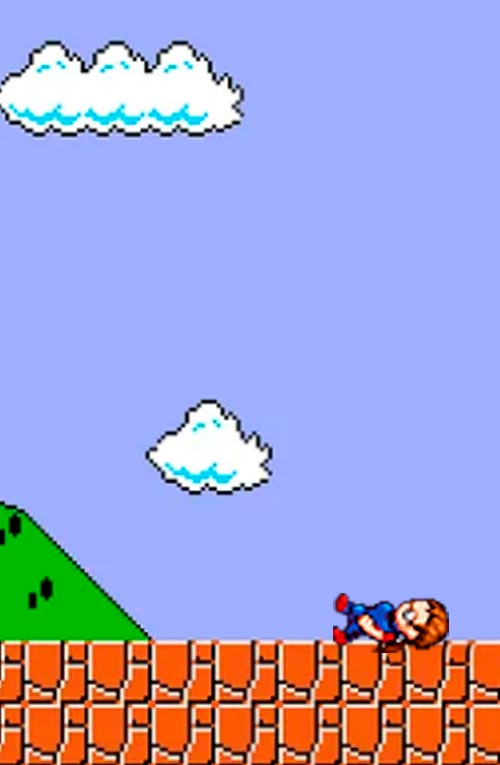
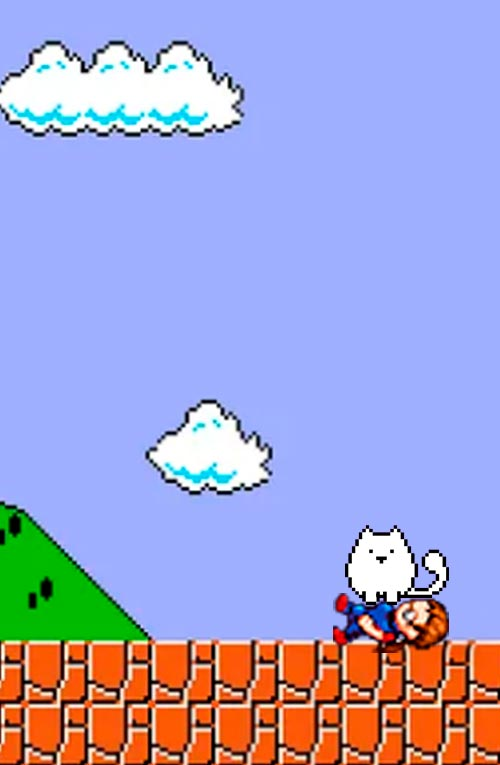
efecto de movimiento

Changed region(s): [[0.69, 0.6915, 0.9, 0.8118]]

diff --git a/index.js b/index.js
@@ -4,7 +4,7 @@ import { CreateEnemy } from "./enemy.js";
 import { CreateStar } from "./star.js";
 import { CreateLife } from "./hp.js"
 import { CreateKahoot } from "./kahoot.js";
-import { CreateBox }  from "./box.js"; 
+import { CreateBox } from "./box.js";
 
 
 
@@ -177,11 +177,11 @@ var collisionPlataformEnemies = setInterval(function () {
 
 
 var checkKahoot = setInterval(function () {
-  if(star.contador===2 && kahoot.controlInsert){
+  if (star.contador === 2 && kahoot.controlInsert) {
     star.contador = 0;
     kahoot.insertKahoot();
     console.log(kahoot)
-    kahoot.controlInsert= false
+    kahoot.controlInsert = false
   }
 }, 100)
 
@@ -189,14 +189,14 @@ var checkKahoot = setInterval(function () {
 
 
 var checkIratze = setInterval(function () {
-  if(iratze.superMode===true){
-    if(!document.querySelector(".player").classList.contains("super")){
+  if (iratze.superMode === true) {
+    if (!document.querySelector(".player").classList.contains("super")) {
       document.querySelector(".player").classList.add("super")
     }
   }
-  else{
-   
-    if(document.querySelector(".player").classList.contains("super")){
+  else {
+
+    if (document.querySelector(".player").classList.contains("super")) {
       document.querySelector(".player").classList.remove("super")
     }
   }
@@ -219,9 +219,22 @@ window.addEventListener('keydown', function (e) {
   switch (e.key) {
     case 'a':
       iratze.direction = -1
+      if (document.querySelector(".jugador").classList.contains("player") || document.querySelector(".jugador").classList.contains("playerDerecha")) {
+        document.querySelector(".jugador").classList.remove("player")
+        document.querySelector(".jugador").classList.remove("playerDerecha")
+        document.querySelector(".jugador").classList.add("playerIzquierda")
+      }
+
       break
+
     case 'd':
       iratze.direction = +1
+      if (document.querySelector(".jugador").classList.contains("player") || document.querySelector(".jugador").classList.contains("playerIzquierda")) {
+        document.querySelector(".jugador").classList.remove("player")
+        document.querySelector(".jugador").classList.remove("playerIzquierda")
+        document.querySelector(".jugador").classList.add("playerDerecha")
+      }
+
       break
 
     case ' ':
@@ -270,7 +283,14 @@ window.addEventListener('keydown', function (e) {
   }
 })
 
-
+/*var checkImagenOrientacion = setInterval(function(){
+  if(iratze.direction = -1 && iratze.key ){
+    document.querySelector(".player").classList.add("playerIzquierda")
+  }
+  if(iratze.direction = 1){
+    document.querySelector(".player").classList.add("playerDerecha")
+  }
+},100)*/
 // Movimiento
 var saltoHabilitado = true;
 
@@ -287,7 +307,7 @@ function playerMovement() {
     gameovermusic.volume = 0.1
     gameovermusic.play()
     document.getElementById("points").innerText = "YOUR SCORE: " + iratze.points.toString().padStart(4, '0');
-    document.getElementById("time").innerText = "YOUR TIME: " + minutos.toString().padStart(2,'0') +":"+ segundos.toString().padStart(2,'0')
+    document.getElementById("time").innerText = "YOUR TIME: " + minutos.toString().padStart(2, '0') + ":" + segundos.toString().padStart(2, '0')
     iratze.noGaming = true;
     //clearInterval(timerId)
     //clearInterval(collisionPlataformEnemies)
@@ -303,6 +323,13 @@ window.addEventListener('keyup', function (e) {
   if (e.key === 'a' && iratze.direction === -1 || e.key === 'd' && iratze.direction === 1) {
     // La tecla 'a' se levanta y la dirección estaba establecida a la izquierda
     iratze.direction = 0;
+
+
+  }
+  if (document.querySelector(".jugador").classList.contains("playerDerecha") || document.querySelector(".jugador").classList.contains("playerIzquierda")) {
+    document.querySelector(".jugador").classList.remove("playerDerecha")
+    document.querySelector(".jugador").classList.remove("playerIzquierda")
+    document.querySelector(".jugador").classList.add("player")
   }
 });
 
@@ -328,8 +355,8 @@ restart.addEventListener("click", function () {
   gameovermusic.pause();
   gameovermusic.currentTime = 0;
   backgroundMusic.play()
-  star.contador= 0
-  restart.parentNode.style.display = "none"
+  star.contador = 0
+  restart.parentNode.parentNode.style.display = "none"
   iratze.isDead = false;
   iratze.x = 243
   iratze.y = 12

diff --git a/main.css b/main.css
@@ -10,7 +10,7 @@
 }
 
 .player{
-    background-image: url(./img/super_ira.png);
+    background-image: url(./img/centro.png);
     background-size: contain;
     background-repeat: no-repeat;
     height: 78px;
@@ -18,6 +18,92 @@
     position: absolute;
     left: 243px;
     z-index: 2;
+}
+
+.playerDerecha{
+    background-image: url(./img/centro.png);
+    background-size: contain;
+    background-repeat: no-repeat;
+    height: 78px;
+    width: 50px;
+    position: absolute;
+    transform: translateX(-50%);
+    animation: walkAnimationDer 1.5s steps(9) infinite;
+
+}
+
+@keyframes walkAnimationDer {
+    0%, 100% {
+        background-image: url('./img/derecha/derc1.png');
+        transform: translateX(-50%) scaleY(1);
+    }
+    11.11% {
+        background-image: url('./img/derecha/derc2.png');
+    }
+    22.22% {
+        background-image: url('./img/derecha/derc3.png');
+    }
+    33.33% {
+        background-image: url('./img/derecha/derc4.png');
+    }
+    44.44% {
+        background-image: url('./img/derecha/derc5.png');
+    }
+    55.55% {
+        background-image: url('./img/derecha/derc6.png');
+    }
+    66.66% {
+        background-image: url('./img/derecha/derc7.png');
+    }
+    77.77% {
+        background-image: url('./img/derecha/derc8.png');
+    }
+    88.88% {
+        background-image: url('./img/derecha/derc9.png');
+    }
+}
+
+.playerIzquierda{
+    background-image: url(./img/centro.png);
+    background-size: contain;
+    background-repeat: no-repeat;
+    height: 78px;
+    width: 50px;
+    position: absolute;
+    transform: translateX(-50%);
+    animation: walkAnimationIzq 1.5s steps(9) infinite;
+
+}
+
+@keyframes walkAnimationIzq {
+    0%, 100% {
+        background-image: url('./img/izquierda/izq1.png');
+        transform: translateX(-50%) scaleY(1);
+    }
+    11.11% {
+        background-image: url('./img/izquierda/izq2.png');
+    }
+    22.22% {
+        background-image: url('./img/izquierda/izq3.png');
+    }
+    33.33% {
+        background-image: url('./img/izquierda/izq4.png');
+    }
+    44.44% {
+        background-image: url('./img/izquierda/izq5.png');
+    }
+    55.55% {
+        background-image: url('./img/izquierda/izq6.png');
+    }
+    66.66% {
+        background-image: url('./img/izquierda/izq7.png');
+    }
+    77.77% {
+        background-image: url('./img/izquierda/izq8.png');
+    }
+    88.88% {
+        background-image: url('./img/izquierda/izq9.png');
+    }
 }
 
 .plataform{

diff --git a/player.js b/player.js
@@ -29,6 +29,7 @@ function CreatePlayer(x, y, parent, enemies, star, lifes, kahoot) {
   this.insertPlayer = function () {
     var newPlayer = document.createElement('div');
     newPlayer.classList.add('player');
+    newPlayer.classList.add('jugador');
     newPlayer.style.bottom = this.y + 'px';
     newPlayer.style.left = this.x + 'px';
     parent.appendChild(newPlayer);
